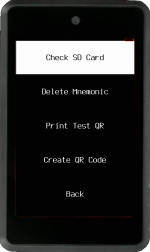
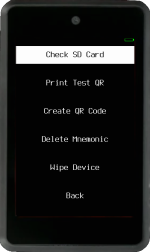
docs updating tools

diff --git a/docs/getting-started/features/tools.en.md b/docs/getting-started/features/tools.en.md
@@ -11,14 +11,6 @@ You can check if a SD card can be detected and read by your device and explore i
 
 <div style="clear: both"></div>
 
-### Delete Mnemonic
-<img src="../../../img/maixpy_m5stickv/delete-mnemonic-125.png" align="right">
-<img src="../../../img/maixpy_amigo_tft/delete-mnemonic-150.png" align="right">
-
-Delete any stored encrypted mnemonic, on device's internal memory or SD card.
-
-<div style="clear: both"></div>
-
 ### Print Test QR
 <img src="../../../img/maixpy_m5stickv/print-test-qr-125.png" align="right">
 <img src="../../../img/maixpy_amigo_tft/print-test-qr-150.png" align="right">
@@ -32,5 +24,21 @@ Quickly print a test QR code to check and optimize your printer setup.
 <img src="../../../img/maixpy_amigo_tft/create-qr-code-150.png" align="right">
 
 Enter a text input to create, print or transcript a QR code that can be later used as an encryption key or as a passphrase.
+
+<div style="clear: both"></div>
+
+### Delete Mnemonic
+<img src="../../../img/maixpy_m5stickv/delete-mnemonic-125.png" align="right">
+<img src="../../../img/maixpy_amigo_tft/delete-mnemonic-150.png" align="right">
+
+Delete any stored encrypted mnemonic, on device's internal memory or SD card.
+
+<div style="clear: both"></div>
+
+### Wipe Device
+<img src="../../../img/maixpy_m5stickv/wipe-device-125.png" align="right">
+<img src="../../../img/maixpy_amigo_tft/wipe-device-150.png" align="right">
+
+Permanently remove all stored encrypted mnemonics and settings from device's internal flash memory.
 
 <div style="clear: both"></div>
